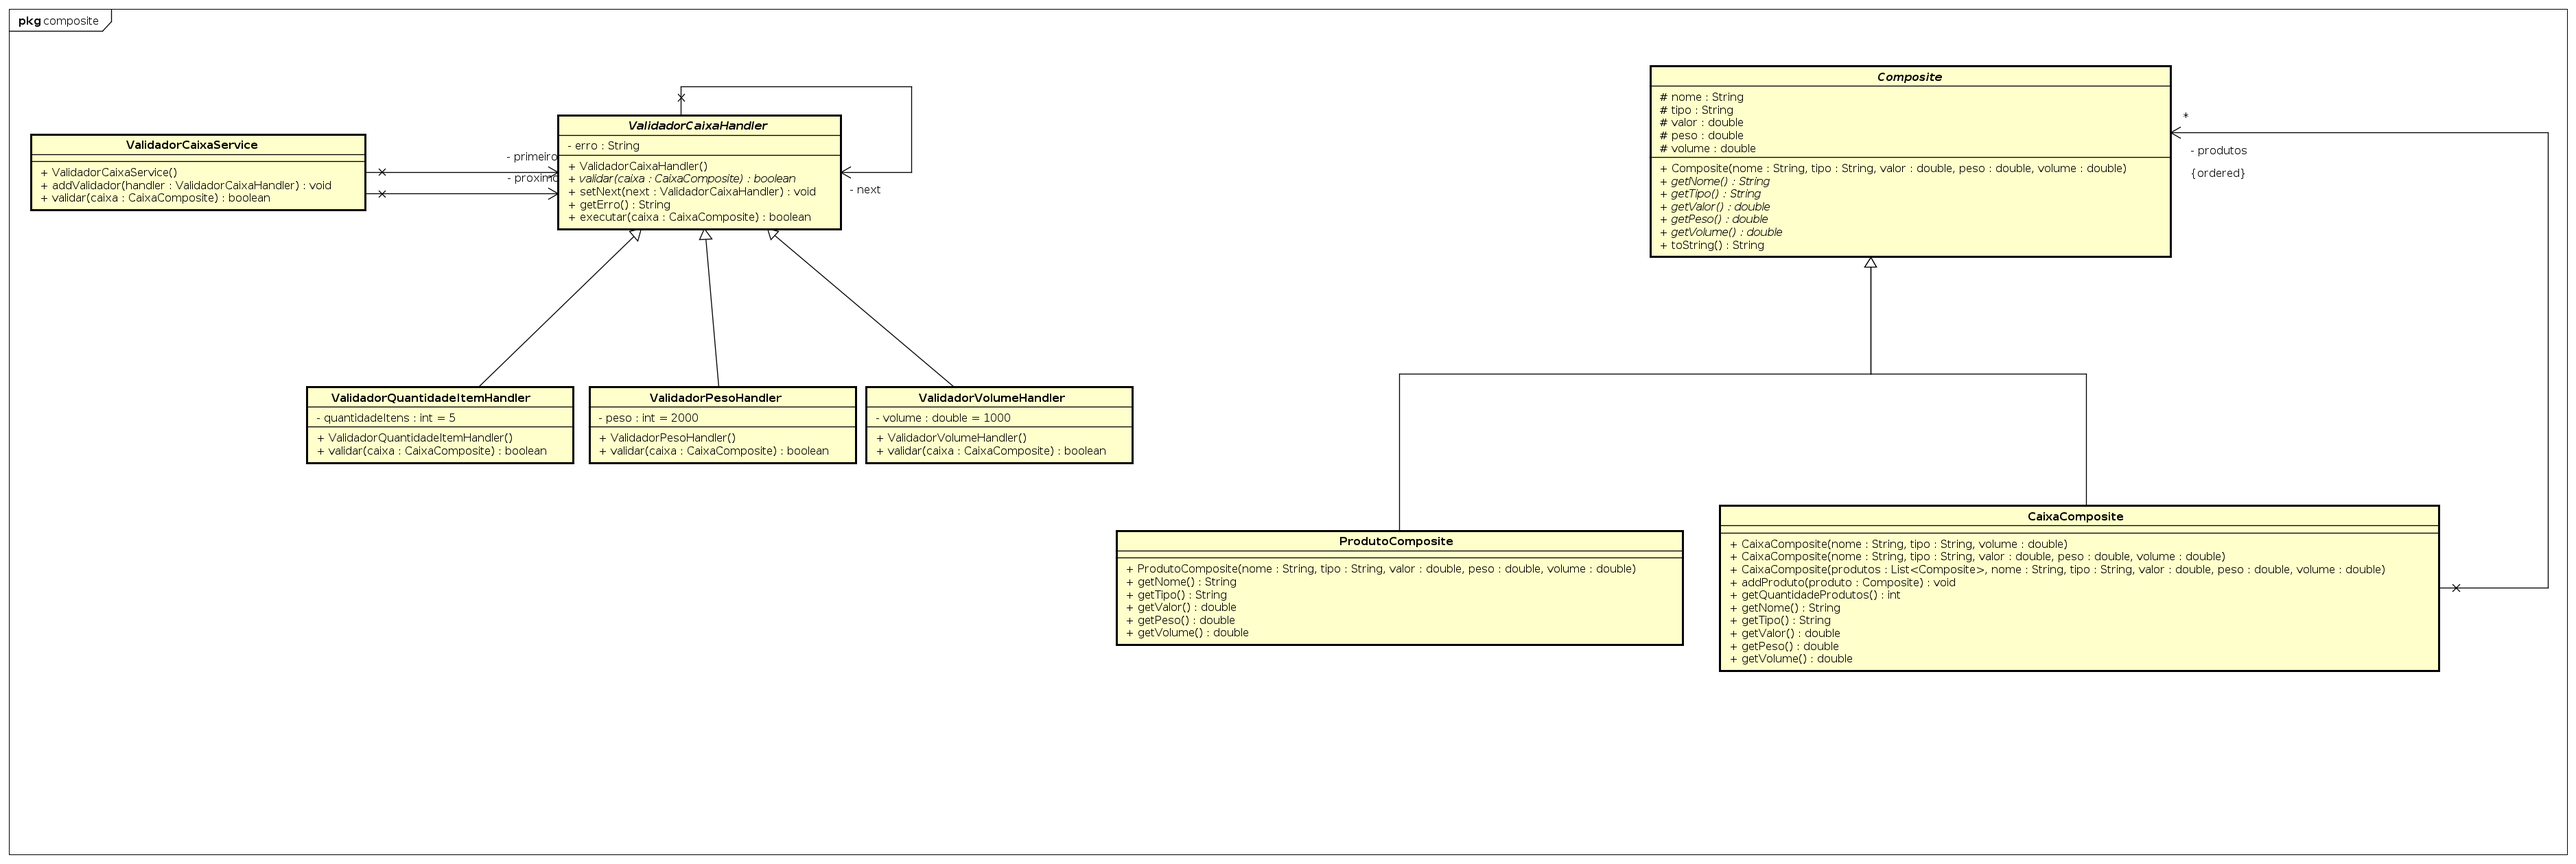
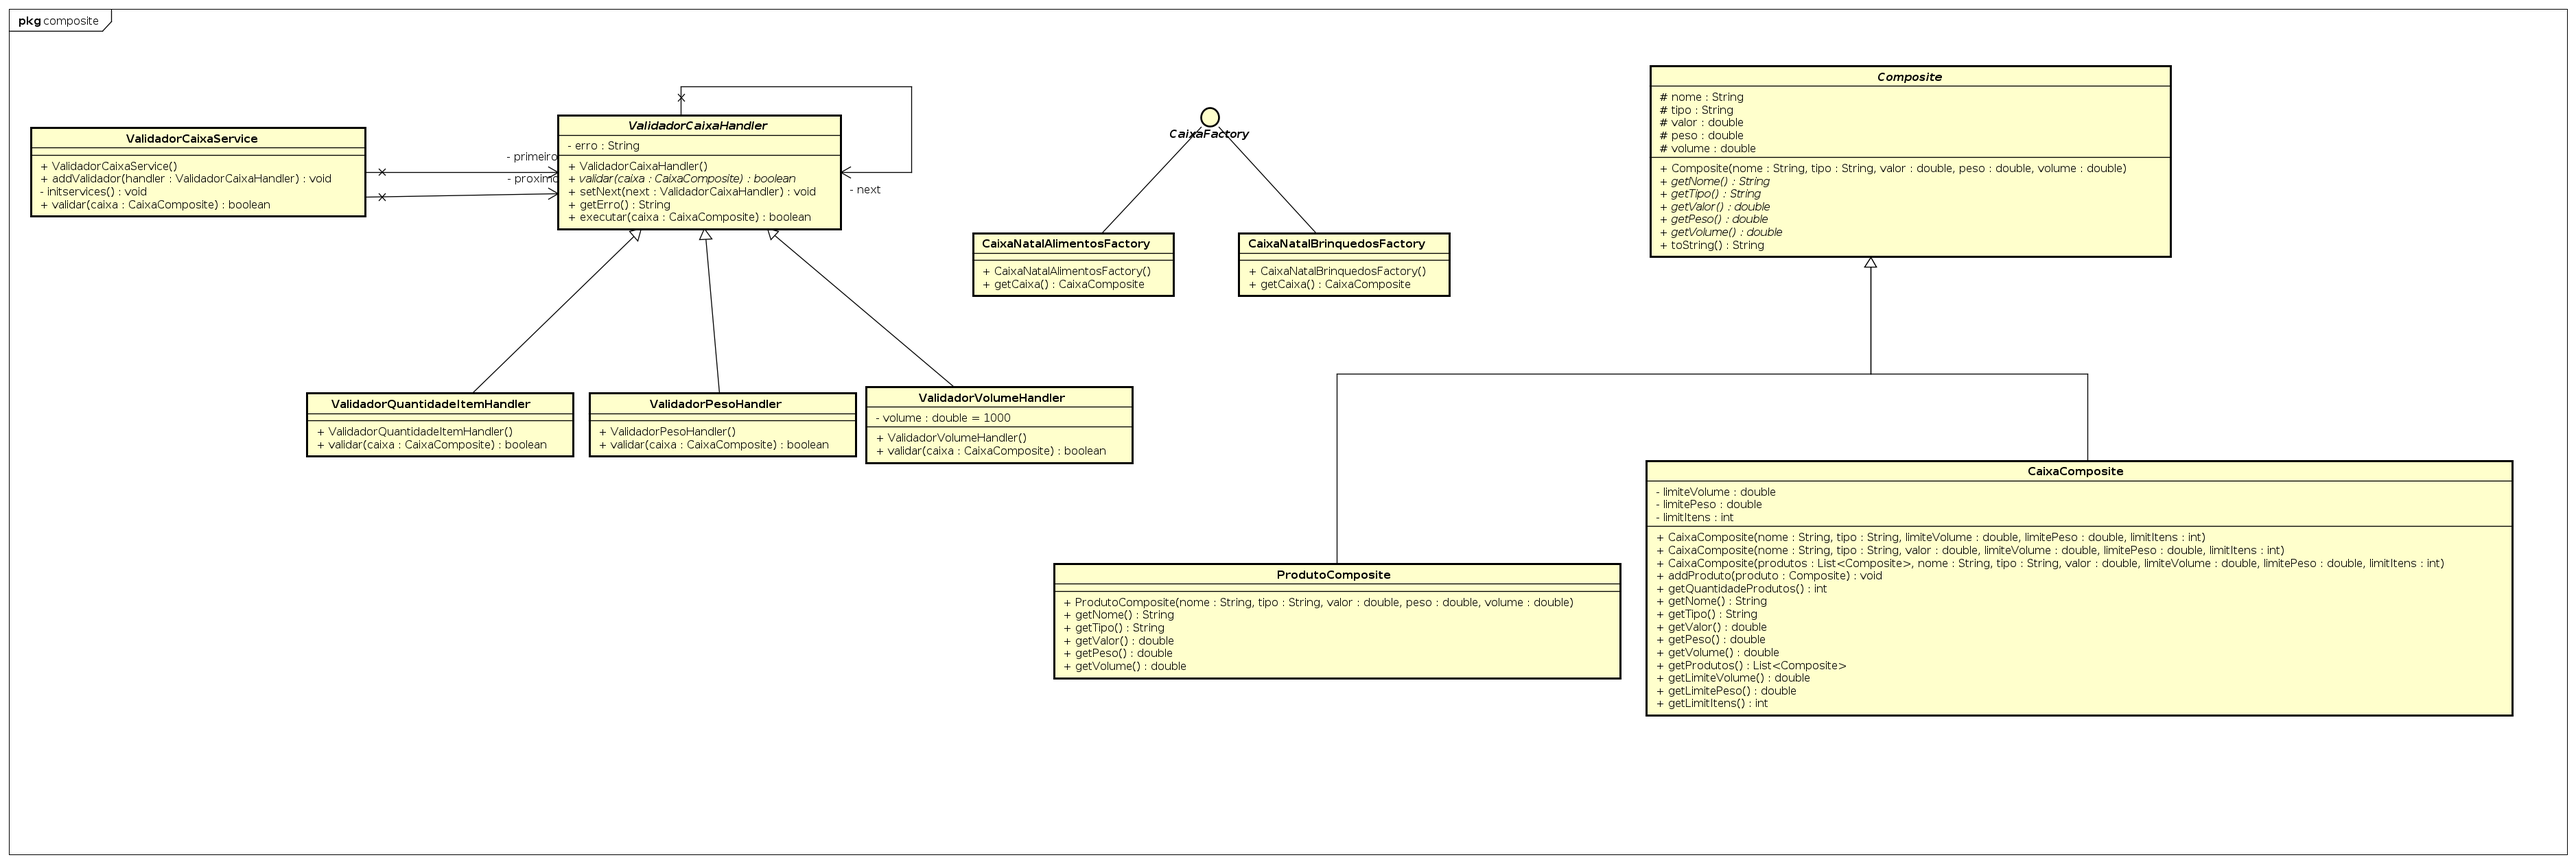
feat: criando  factory de caixas de natal mais melhorias

diff --git a/src/main/java/com/ufes/atividadecomposite/composite/CaixaComposite.java b/src/main/java/com/ufes/atividadecomposite/composite/CaixaComposite.java
@@ -7,15 +7,23 @@ import java.util.List;
 public class CaixaComposite  extends Composite{
     
     private List<Composite> produtos;
+    private double limiteVolume;
+    private double limitePeso;
+    private int limitItens;
     
     public CaixaComposite(
             String nome, 
             String tipo, 
-            double volume
+            double limiteVolume,
+            double limitePeso,
+            int limitItens
     ) {
-        super(nome, tipo, 0, 0, volume);
+        super(nome, tipo, 0, 0, limiteVolume);
         produtos = new ArrayList<>();
-        
+        this.limiteVolume = limiteVolume;
+        this.limitePeso = limitePeso;
+        this.limitItens = limitItens;
+                
     }
     
     
@@ -23,11 +31,15 @@ public class CaixaComposite  extends Composite{
             String nome, 
             String tipo, 
             double valor, 
-            double peso, 
-            double volume
+            double limiteVolume,
+            double limitePeso,
+            int limitItens
     ) {
-        super(nome, tipo, valor, peso, volume);
+        super(nome, tipo, valor, limitePeso, limiteVolume);
         produtos = new ArrayList<>();
+        this.limiteVolume = limiteVolume;
+        this.limitePeso = limitePeso;
+        this.limitItens = limitItens;
         
     }
 
@@ -36,11 +48,15 @@ public class CaixaComposite  extends Composite{
             String nome, 
             String tipo, 
             double valor,
-            double peso, 
-            double volume
+            double limiteVolume,
+            double limitePeso,
+            int limitItens
     ) {
-        super(nome, tipo, valor, peso, volume);
+        super(nome, tipo, valor,limitePeso, limiteVolume);
         this.produtos = produtos;
+        this.limiteVolume = limiteVolume;
+        this.limitePeso = limitePeso;
+        this.limitItens = limitItens;
     }
     
     public void addProduto(Composite produto){
@@ -90,4 +106,22 @@ public class CaixaComposite  extends Composite{
         
         return total;
     }
+
+    public List<Composite> getProdutos() {
+        return produtos;
+    }
+
+    public double getLimiteVolume() {
+        return limiteVolume;
+    }
+
+    public double getLimitePeso() {
+        return limitePeso;
+    }
+
+    public int getLimitItens() {
+        return limitItens;
+    }
+    
+    
 }

diff --git a/src/main/java/com/ufes/atividadecomposite/AtividadeComposite.java b/src/main/java/com/ufes/atividadecomposite/AtividadeComposite.java
@@ -1,11 +1,9 @@
 package com.ufes.atividadecomposite;
 
+import com.ufes.atividadecomposite.caixafactory.CaixaNatalAlimentosFactory;
+import com.ufes.atividadecomposite.caixafactory.CaixaNatalBrinquedosFactory;
 import com.ufes.atividadecomposite.composite.CaixaComposite;
 import com.ufes.atividadecomposite.composite.ProdutoComposite;
-import com.ufes.atividadecomposite.validadorcaixa.handler.ValidadorCaixaHandler;
-import com.ufes.atividadecomposite.validadorcaixa.handler.ValidadorPesoHandler;
-import com.ufes.atividadecomposite.validadorcaixa.handler.ValidadorQuantidadeItemHandler;
-import com.ufes.atividadecomposite.validadorcaixa.handler.ValidadorVolumeHandler;
 import com.ufes.atividadecomposite.validadorcaixa.service.ValidadorCaixaService;
 
 
@@ -14,18 +12,28 @@ public class AtividadeComposite {
     public static void main(String[] args) throws Exception {
         ValidadorCaixaService s = new ValidadorCaixaService();
         
-        CaixaComposite c1 = new CaixaComposite("c1", "1", 1000);
-        c1.addProduto(new ProdutoComposite("a","a",10,0,0));
-        c1.addProduto(new ProdutoComposite("ba","ba",20,150,0));
-        c1.addProduto(new ProdutoComposite("ba","ba",20,150,0));
-        c1.addProduto(new ProdutoComposite("ba","ba",20,150,0));
-        c1.addProduto(new ProdutoComposite("ba","ba",20,150,0));
-        c1.addProduto(new ProdutoComposite("ba","ba",20,150,0));
-        c1.addProduto(new ProdutoComposite("ba","ba",20,150,0));
+        CaixaComposite c1 = new CaixaNatalAlimentosFactory().getCaixa();
+        c1.addProduto(
+            new ProdutoComposite(
+                    "Queijo parmesão", 
+                    "Alimento", 
+                    70, 100, 
+                    20)
+        );
         
-        s.addValidador(new ValidadorPesoHandler());
-        s.addValidador(new ValidadorQuantidadeItemHandler());
-        s.addValidador(new ValidadorVolumeHandler());
+        c1 = new CaixaNatalBrinquedosFactory().getCaixa();
+        
+         c1.addProduto(
+            new ProdutoComposite(
+                "Boneco do homem aranha", 
+                "Brinquedo", 
+                400, 
+                200, 
+                100
+            )
+        );
+        
         System.out.println(s.validar(c1));
+        System.out.println(c1.toString());
     }
 }

diff --git a/src/main/java/com/ufes/atividadecomposite/caixafactory/CaixaNatalBrinquedosFactory.java b/src/main/java/com/ufes/atividadecomposite/caixafactory/CaixaNatalBrinquedosFactory.java
@@ -1,0 +1,49 @@
+package com.ufes.atividadecomposite.caixafactory;
+
+import com.ufes.atividadecomposite.composite.CaixaComposite;
+import com.ufes.atividadecomposite.composite.ProdutoComposite;
+
+
+public class CaixaNatalBrinquedosFactory implements CaixaFactory{
+
+    public CaixaNatalBrinquedosFactory() {
+    }
+
+    @Override
+    public CaixaComposite getCaixa() {
+        CaixaComposite caixa = new CaixaComposite(
+            "Caixa de natal: brinquedos", 
+            "Caixa grande", 
+            500,
+            300,
+            4
+        );
+        
+        caixa.addProduto(new ProdutoComposite(
+                "Carrinho de controle remoto", 
+                "Brinquedo",
+                100,
+                30,
+                20
+        ));
+        caixa.addProduto(new ProdutoComposite(
+                "Boneco de ação", 
+                "Brinquedo",
+                150,
+                25,
+                30
+        ));
+        caixa.addProduto(new ProdutoComposite(
+                "Quebra cabeça", 
+                "Brinquedo",
+                80,
+                10,
+                15
+        ));
+        
+        return caixa;
+        
+    }
+    
+    
+}

diff --git a/src/main/java/com/ufes/atividadecomposite/caixafactory/CaixaNatalAlimentosFactory.java b/src/main/java/com/ufes/atividadecomposite/caixafactory/CaixaNatalAlimentosFactory.java
@@ -1,0 +1,48 @@
+package com.ufes.atividadecomposite.caixafactory;
+
+import com.ufes.atividadecomposite.composite.CaixaComposite;
+import com.ufes.atividadecomposite.composite.ProdutoComposite;
+
+
+public class CaixaNatalAlimentosFactory implements CaixaFactory{
+
+    public CaixaNatalAlimentosFactory() {
+    }
+
+    @Override
+    public CaixaComposite getCaixa() {
+        CaixaComposite caixa = new CaixaComposite(
+            "Caixa de natal", 
+            "Caixa grande", 
+            1000,
+            500,
+            5
+        );
+        
+        caixa.addProduto(new ProdutoComposite(
+                "Panetone", 
+                "Alimento",
+                50,
+                20,
+                40
+        ));
+        
+        caixa.addProduto(new ProdutoComposite(
+                "Vinho", 
+                "Bebida",
+                100,
+                40,
+                20
+        ));
+        
+        caixa.addProduto(new ProdutoComposite(
+                "Frango Assado", 
+                "Alimento",
+                30,
+                50,
+                50
+        ));
+        
+        return caixa;
+    } 
+}

diff --git a/src/main/java/com/ufes/atividadecomposite/validadorcaixa/service/ValidadorCaixaService.java b/src/main/java/com/ufes/atividadecomposite/validadorcaixa/service/ValidadorCaixaService.java
@@ -4,6 +4,7 @@ import com.ufes.atividadecomposite.composite.CaixaComposite;
 import com.ufes.atividadecomposite.validadorcaixa.handler.ValidadorCaixaHandler;
 import com.ufes.atividadecomposite.validadorcaixa.handler.ValidadorPesoHandler;
 import com.ufes.atividadecomposite.validadorcaixa.handler.ValidadorQuantidadeItemHandler;
+import com.ufes.atividadecomposite.validadorcaixa.handler.ValidadorVolumeHandler;
 
 
 public class ValidadorCaixaService {
@@ -13,7 +14,7 @@ public class ValidadorCaixaService {
 
     
     public ValidadorCaixaService() {
-        
+        initservices();
     }
     
     public void addValidador(ValidadorCaixaHandler handler){
@@ -23,6 +24,12 @@ public class ValidadorCaixaService {
             this.proximo.setNext(handler);
         }
         this.proximo = handler;
+    }
+    
+    private void initservices(){
+        this.addValidador(new ValidadorPesoHandler());
+        this.addValidador(new ValidadorQuantidadeItemHandler());
+        this.addValidador(new ValidadorVolumeHandler());
     }
 
     public boolean validar(CaixaComposite caixa) throws Exception{

diff --git a/src/main/java/com/ufes/atividadecomposite/validadorcaixa/handler/ValidadorQuantidadeItemHandler.java b/src/main/java/com/ufes/atividadecomposite/validadorcaixa/handler/ValidadorQuantidadeItemHandler.java
@@ -4,14 +4,12 @@ import com.ufes.atividadecomposite.composite.CaixaComposite;
 
 
 public class ValidadorQuantidadeItemHandler extends ValidadorCaixaHandler{
-    
-    private final int quantidadeItens = 5;
-    
     public ValidadorQuantidadeItemHandler() {
     }
 
     @Override
     public boolean validar(CaixaComposite caixa) throws Exception{
+        int quantidadeItens = caixa.getLimitItens();
         if(caixa.getQuantidadeProdutos()<= quantidadeItens)
             return true;
         throw new Exception(

diff --git a/src/main/java/com/ufes/atividadecomposite/validadorcaixa/handler/ValidadorPesoHandler.java b/src/main/java/com/ufes/atividadecomposite/validadorcaixa/handler/ValidadorPesoHandler.java
@@ -4,14 +4,14 @@ import com.ufes.atividadecomposite.composite.CaixaComposite;
 
 
 public class ValidadorPesoHandler extends ValidadorCaixaHandler{
-    
-    private final int peso = 2000;
+   
     
     public ValidadorPesoHandler() {
     }
 
     @Override
     public boolean validar(CaixaComposite caixa) throws Exception{
+        double peso = caixa.getLimitePeso();
         if(caixa.getPeso() <= peso)
             return true;
         throw new Exception(

diff --git a/src/main/java/com/ufes/atividadecomposite/validadorcaixa/handler/ValidadorCaixaHandler.java b/src/main/java/com/ufes/atividadecomposite/validadorcaixa/handler/ValidadorCaixaHandler.java
@@ -22,8 +22,11 @@ public abstract class ValidadorCaixaHandler {
     }
     
     public final boolean executar(CaixaComposite caixa) throws Exception{
-        if(validar(caixa))
-            return next.executar(caixa);
+        if(validar(caixa)){
+            if(next != null)
+                return next.executar(caixa);
+            return true;
+        }
         else
             throw new RuntimeException("Não é possível validar caixa");
     }

diff --git a/src/main/java/com/ufes/atividadecomposite/validadorcaixa/handler/ValidadorVolumeHandler.java b/src/main/java/com/ufes/atividadecomposite/validadorcaixa/handler/ValidadorVolumeHandler.java
@@ -13,6 +13,7 @@ public class ValidadorVolumeHandler extends ValidadorCaixaHandler{
 
     @Override
     public boolean validar(CaixaComposite caixa) throws Exception{
+        double volume = caixa.getLimiteVolume();
         if(caixa.getVolume() <= volume)
             return true;
         throw new Exception(

diff --git a/src/main/java/com/ufes/atividadecomposite/caixafactory/CaixaFactory.java b/src/main/java/com/ufes/atividadecomposite/caixafactory/CaixaFactory.java
@@ -1,0 +1,8 @@
+package com.ufes.atividadecomposite.caixafactory;
+
+import com.ufes.atividadecomposite.composite.CaixaComposite;
+
+
+public interface CaixaFactory {
+    CaixaComposite getCaixa();
+}
